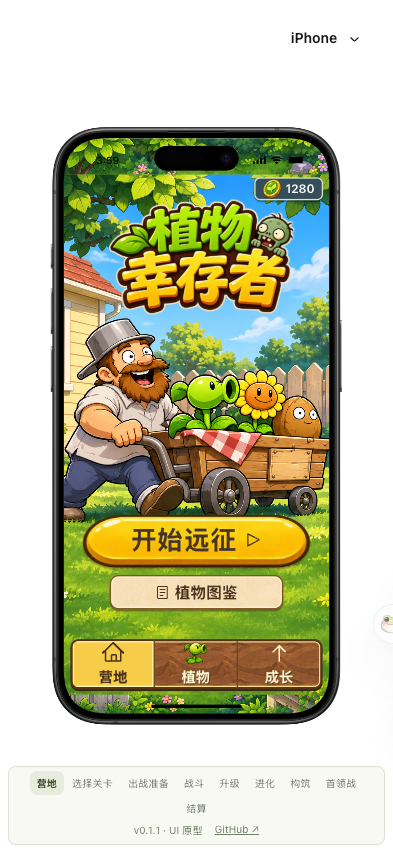
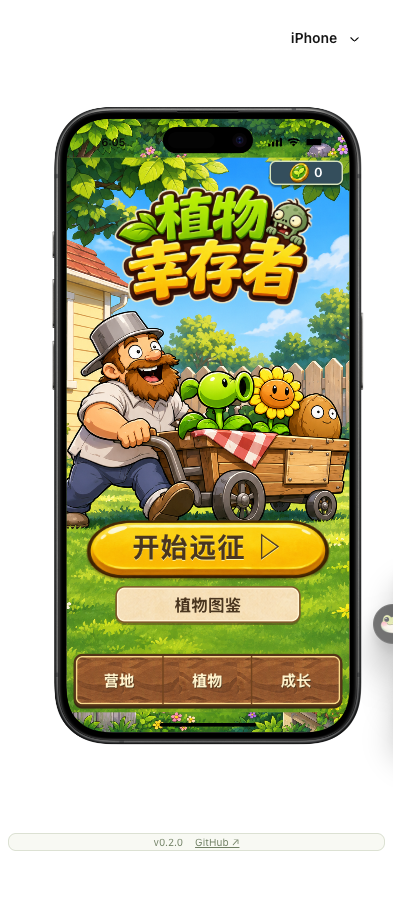
Implement playable garden survivor campaign and staged validation

diff --git a/src/Prototype.tsx b/src/Prototype.tsx
@@ -1,71 +1,45 @@
-import { version } from '../package.json';
-import { useEffect, useRef, useState, type CSSProperties, type ReactNode, type PointerEvent } from 'react';
-import { createPortal } from 'react-dom';
-import { HomeIcon, ArrowUpIcon, PlayIcon, PauseIcon, ReloadIcon, ChevronLeftIcon, ChevronRightIcon, CheckIcon, PlusIcon, LockClosedIcon, Cross2Icon, HeartFilledIcon, ReaderIcon, EyeOpenIcon, SpeakerLoudIcon } from '@radix-ui/react-icons';
-import { useKeyboard } from './mobile';
+import {useEffect,useRef,useState,type ReactNode,type PointerEvent} from 'react';
+import {createPortal} from 'react-dom';
+import {version} from '../package.json';
+import {createRun,step,select,reroll,names,descriptions,clock,type Run} from './game/simulation';
 import './prototype.css';
-
-type Screen='lobby'|'map'|'prepare'|'battle'|'upgrade'|'evolution'|'build'|'boss'|'result';
-const screens: [Screen,string][]=[['lobby','营地'],['map','选择关卡'],['prepare','出战准备'],['battle','战斗'],['upgrade','升级'],['evolution','进化'],['build','构筑'],['boss','首领战'],['result','结算']];
-const plants=[{id:'pea',name:'豌豆射手',detail:'自动瞄准最近的敌人',level:5},{id:'sunflower',name:'向日葵',detail:'收集更多阳光',level:4},{id:'walnut',name:'坚果',detail:'增加最大生命',level:3},{id:'ice',name:'寒冰射手',detail:'发射寒冰豌豆，减速敌人',level:3},{id:'boomerang',name:'回旋镖射手',detail:'往返攻击，清理追兵',level:2},{id:'mushroom',name:'大喷菇',detail:'近距离穿透攻击',level:2}];
-const starters=[plants[0],plants[3],plants[4]];
-const asset=(id:string)=>`/assets/game/${["bag","crystal","chest","seed"].includes(id)?id+"-v2":id}.png`;
-function Art({id,className='',style,alt=''}:{id:string,className?:string,style?:CSSProperties,alt?:string}){return <img src={asset(id)} className={`art ${className}`} style={style} alt={alt} draggable={false}/>}
-function Gold({children,onClick,className='',disabled=false}:{children:ReactNode,onClick:()=>void,className?:string,disabled?:boolean}){return <button className={`gold ${className}`} onClick={onClick} disabled={disabled}>{children}</button>}
-function Paper({children,className=''}:{children:ReactNode,className?:string}){return <section className={`paper ${className}`}>{children}</section>}
-function Sign({children,back}:{children:ReactNode,back?:()=>void}){return <header className="sign">{back&&<button className="back" onClick={back} aria-label="返回"><ChevronLeftIcon/></button>}<h1>{children}</h1></header>}
-function PlantCard({id,level,onClick,selected=false,empty=false,label}:{id?:string,level?:number,onClick?:()=>void,selected?:boolean,empty?:boolean,label?:string}){return <button className={`plant-card ${selected?'selected':''} ${empty?'empty':''}`} onClick={onClick} disabled={!onClick} aria-label={label||plants.find(p=>p.id===id)?.name||({gatling:"机枪射手",bag:"弹药袋",sun:"阳光护符",crystal:"冰晶"} as Record<string,string>)[id||""]||"空位"}>{empty?<><PlusIcon/><small>空位</small></>:<><Art id={id!}/>{level!==undefined&&<strong>Lv.{level}</strong>}{label&&<small>{label}</small>}{selected&&<CheckIcon className="check"/>}</>}</button>}
+const base=window.location.pathname.startsWith('/plant-survivors-ui/')?'/plant-survivors-ui/':'/';
+const asset=(id:string)=>`${base}assets/game/${id==='bag'?'bag-v2':id}.png`;
+const stages=['阳光后院','月光泳池','屋顶花园'];
+function Art({id,className='',alt=''}:{id:string,className?:string,alt?:string}){return <img className={`art ${className}`} src={asset(id)} alt={alt} draggable={false}/>}
+function Gold({children,onClick,disabled=false}:{children:ReactNode,onClick:()=>void,disabled?:boolean}){return <button className="gold" onClick={onClick} disabled={disabled}>{children}</button>}
+function Sign({children,back}:{children:ReactNode,back?:()=>void}){return <header className="sign">{back&&<button className="back" aria-label="返回" onClick={back}>‹</button>}<h1>{children}</h1></header>}
+function loadSave(){try{const d=JSON.parse(localStorage.getItem('garden-save-v1')||'{}');return {seeds:Math.max(0,Number(d.seeds)||0),unlocked:Math.max(0,Math.min(2,Number(d.unlocked)||0)),best:Math.max(0,Number(d.best)||0)};}catch{return {seeds:0,unlocked:0,best:0}}}
 export default function Prototype(){
- const initial=window.location.hash.slice(1) as Screen;
- const [screen,setScreen]=useState<Screen>(screens.some(([s])=>s===initial)?initial:'lobby');
- const [starter,setStarter]=useState('pea'); const [stage,setStage]=useState(0); const [rerolls,setRerolls]=useState(2); const [choiceSet,setChoiceSet]=useState(0); const [upgrade,setUpgrade]=useState(0); const [evolved,setEvolved]=useState(false); const [tracked,setTracked]=useState(false); const [modal,setModal]=useState<string|null>(null); const [toast,setToast]=useState(''); const [atlas,setAtlas]=useState('pea'); const [music,setMusic]=useState(true); const [reduced,setReduced]=useState(false); const [pos,setPos]=useState({x:50,y:51}); const [stick,setStick]=useState({x:0,y:0});
- const keyboard=useKeyboard(); const previous=useRef<Screen>('battle'); const joy=useRef<HTMLDivElement>(null); const input=useRef({x:0,y:0}); const [rewards,setRewards]=useState(false);
- function go(next:Screen){if(next==='boss')setPos({x:41,y:68});keyboard.hide();setModal(null);input.current={x:0,y:0};setStick({x:0,y:0});setScreen(next);window.history.replaceState(null,'',`#${next}`);}
- function notify(message:string){setToast(message)}
- function begin(){setUpgrade(0);setEvolved(false);setRerolls(2);setChoiceSet(0);setRewards(false);setPos({x:50,y:51});go('battle')}
- function openBuild(){previous.current=screen==='boss'?'boss':'battle';go('build')}
- useEffect(()=>{document.title='植物幸存者 · 经典后院';},[]);
- useEffect(()=>{if(!modal)return;const target=document.activeElement as HTMLElement|null;const close=(e:KeyboardEvent)=>{if(e.key==='Escape')setModal(null)};document.addEventListener('keydown',close);document.querySelector<HTMLButtonElement>('.close-modal')?.focus();return()=>{document.removeEventListener('keydown',close);target?.focus()}},[modal]);
- useEffect(()=>{if(!toast)return;const t=setTimeout(()=>setToast(''),2200);return()=>clearTimeout(t)},[toast]);
- useEffect(()=>{const pause=()=>{if(document.hidden&&(screen==='battle'||screen==='boss')){setModal('pause');input.current={x:0,y:0};setStick({x:0,y:0})}};document.addEventListener('visibilitychange',pause);return()=>document.removeEventListener('visibilitychange',pause)},[screen]);
- useEffect(()=>{if(!['battle','boss'].includes(screen)||modal)return;let id:number;let time=0;function frame(now:number){const dt=Math.min((now-time)/1000||0,.04);time=now;if(input.current.x||input.current.y)setPos(p=>({x:Math.min(88,Math.max(12,p.x+input.current.x*dt*22)),y:Math.min(76,Math.max(24,p.y+input.current.y*dt*16))}));id=requestAnimationFrame(frame)}id=requestAnimationFrame(frame);return()=>cancelAnimationFrame(id)},[screen,modal]);
- function drag(e:PointerEvent<HTMLDivElement>){if(e.type==='pointerdown')e.currentTarget.setPointerCapture(e.pointerId);if(e.type==='pointermove'&&!e.currentTarget.hasPointerCapture(e.pointerId))return;const r=e.currentTarget.getBoundingClientRect();let x=(e.clientX-r.left-r.width/2),y=(e.clientY-r.top-r.height/2);const length=Math.hypot(x,y),max=29;if(length>max){x=x/length*max;y=y/length*max}setStick({x,y});input.current={x:x/max,y:y/max};}
- function release(){input.current={x:0,y:0};setStick({x:0,y:0})}
- const current=starters.find(p=>p.id===starter)!;
- const loadout=[plants.find(p=>p.id===starter)!,...plants.filter(p=>p.id!==starter)];
- const evolutionName=starter==='pea'?'机枪射手':starter==='ice'?'霜冻连射':'多重回旋';
- const component=starter==='pea'?{id:'bag',name:'弹药袋'}:starter==='ice'?{id:'crystal',name:'冰晶'}:{id:'boomerang',name:'弹簧'};
- const options=choiceSet%2===0?[{id:starter,title:`${current.name} Lv.${4+upgrade} → Lv.${5+upgrade}`,text:starter==='pea'?'攻击冷却：1.2 → 1.0 秒':'提升攻击覆盖，强化清怪能力',kind:'upgrade'},{id:component.id,title:`${component.name}（新被动）`,text:`${evolutionName}的进化组件。`,kind:'bag'},starter==='ice'?{id:'pea',title:'豌豆射手（新植物）',text:'自动瞄准最近的敌人。',kind:'pea'}:{id:'ice',title:'寒冰射手（新植物）',text:'发射寒冰豌豆，减速敌人。',kind:'ice'}]:[{id:'boomerang',title:'回旋镖射手（新植物）',text:'回程也能命中，清理追兵。',kind:'boomerang'},{id:'sunflower',title:'向日葵 Lv.3 → Lv.4',text:'阳光经验收益 + 8%。',kind:'sunflower'},{id:starter,title:`${current.name} Lv.${4+upgrade} → Lv.${5+upgrade}`,text:'提升主力植物的攻击能力。',kind:'upgrade'}];
- const battle=<div className={`arena ${screen==='boss'?'boss-arena':''} ${reduced?'reduced':''}`}>
-   <div className="hud"><div className="xp"><b>Lv.{evolved?42:18+upgrade}</b><span><i style={{width:`${64+upgrade*5}%`}}/></span><button onClick={()=>setModal('pause')} aria-label="暂停战斗"><PauseIcon/></button></div><div className="vitals"><span><HeartFilledIcon/>82/100</span><strong>{screen==='boss'?'19:20':'05:42'} / 20:00</strong></div></div>
-   {screen==='boss'&&<div className="boss-health"><b>巨人僵尸（伽刚特尔）</b><meter min="0" max="100" value="76"/></div>}
-   <div className="enemies" aria-hidden="true">{Array.from({length:screen==='boss'?13:19},(_,i)=>{const x=i%2===0?5+(i*13)%23:73+(i*7)%19; const y=16+(i*13)%68;return <Art key={i} id={['zombie','cone','bucket'][i%3]} className="enemy" style={{left:`${x}%`,top:`${y}%`,width:`${i%3===0?46:50}px`,animationDelay:`-${i*.37}s`}}/>})}</div>
-   {Array.from({length:9},(_,i)=><Art key={i} id="sun" className="sun-drop" style={{left:`${18+(i*19)%65}%`,top:`${25+(i*13)%50}%`,animationDelay:`-${i*.4}s`}}/>)}
-   {screen==='boss'&&<><Art id="warning" className="danger-zone"/><Art id="boss-trim" className="boss-sprite"/></>}
-   <div className="pea-effects" aria-hidden="true">{Array.from({length:5},(_,i)=><Art id="projectile" key={i} className="projectile" style={{left:`${pos.x}%`,top:`${pos.y}%`,'--dx':`${(i%2?1:-1)*(60+i*14)}px`,'--dy':`${-70-i*18}px`,animationDelay:`-${i*.24}s`} as CSSProperties}/>)}</div><Art id="dave" className="player" style={{left:`${pos.x}%`,top:`${pos.y}%`}}/>
-   <div className="joystick" ref={joy} role="slider" aria-label="移动摇杆" aria-valuemin={-100} aria-valuemax={100} aria-valuenow={Math.round(stick.x/29*100)} tabIndex={0} onPointerDown={drag} onPointerMove={drag} onPointerUp={release} onPointerCancel={release} onLostPointerCapture={release} onKeyDown={e=>{const delta:Record<string,[number,number]>={ArrowLeft:[-2,0],ArrowRight:[2,0],ArrowUp:[0,-2],ArrowDown:[0,2]};if(delta[e.key]){e.preventDefault();const [x,y]=delta[e.key];setPos(p=>({x:Math.max(12,Math.min(88,p.x+x)),y:Math.max(24,Math.min(76,p.y+y))}))}}}><span style={{transform:`translate(${stick.x}px,${stick.y}px)`}}/></div>
-   {screen==='boss'&&<div className="survive-note">存活至 20:00 即可通关</div>}
-   <button className="battle-event" onClick={()=>go(screen==='boss'?'result':evolved?'boss':'upgrade')} aria-label={screen==='boss'?'预览通关结算':evolved?'预览首领战':'拾取阳光并升级'}><Art id={screen==='boss'?'seed':evolved?'chest':'sun'}/><small>{screen==='boss'?'通关':evolved?'首领来袭':'阳光升级'}</small></button>
-   {tracked&&<span className="tracked-label">寒冰配方已追踪</span>}
-   <div className="weapon-dock" aria-label="植物栏">{loadout.map((p,i)=><PlantCard key={p.id} id={i===0?(evolved&&starter==='pea'?'gatling':starter):p.id} level={i===0?5+upgrade:p.level} label={undefined} onClick={openBuild}/>)}</div>
- </div>;
- return <>
-  <div className={`garden-app ${reduced?'reduced':''}`}>
-   <main className={`game-frame view-${screen}`} aria-label={`${screens.find(([s])=>s===screen)?.[1]}界面`}>
-    {screen==='lobby'&&<div className="lobby page"><div className="lobby-hero"><Art id="logo-trim" className="lobby-logo" alt="植物幸存者"/></div><div className="seed-balance"><Art id="seed"/><b>{1280+(rewards?180:0)}</b></div><div className="lobby-actions"><Gold onClick={()=>go('map')}>开始远征 <PlayIcon/></Gold><button className="cream-button" onClick={()=>setModal('atlas')}><ReaderIcon/> 植物图鉴</button></div><nav className="bottom-nav"><button className="active" onClick={()=>go('lobby')}><HomeIcon/>营地</button><button onClick={()=>setModal('atlas')}><Art id="pea"/>植物</button><button onClick={()=>setModal('growth')}><ArrowUpIcon/>成长</button></nav></div>}
-    {screen==='map'&&<div className="page map-page"><Sign back={()=>go('lobby')}>选择关卡</Sign><div className="map-list">{['阳光后院','月光泳池','屋顶花园'].map((name,i)=><button key={name} className={`map-row ${stage===i?'chosen':''}`} onClick={()=>i===0?setStage(i):notify(i===1?'通关阳光后院后解锁':'通关月光泳池后解锁')} aria-label={`选择${name}`}><Art id={['map-day','map-night','map-roof'][i]}/><div><strong>{name}</strong>{i===0?<><small>生存 20 分钟</small><CheckIcon/></>:<LockClosedIcon/>}</div></button>)}</div><Paper className="map-details"><h2>阳光后院</h2><p>生存 20 分钟</p><div className="enemy-preview"><b>敌人预览</b>{['zombie','cone','bucket'].map(id=><Art key={id} id={id}/>)}</div><Gold onClick={()=>go('prepare')}>前往后院 <PlayIcon/></Gold></Paper></div>}
-    {screen==='prepare'&&<div className="page prepare-page"><Sign back={()=>go('map')}>出战准备</Sign><Art id="prep-hero" className="prep-hero"/><Paper className="prepare-paper"><h2>选择初始植物 <small>（仅携带1种）</small></h2><div className="starter-grid">{starters.map(p=><PlantCard key={p.id} id={p.id} label={p.name} selected={starter===p.id} onClick={()=>setStarter(p.id)}/>)}</div><p className="initial-name">初始植物：<b>{current.name}</b></p><div className="empty-slots">{Array.from({length:5},(_,i)=><PlantCard key={i} empty/>)}</div><p className="prepare-note">其余植物，在远征中收集阳光获得</p><Gold onClick={begin}>出 发 <PlayIcon/></Gold></Paper></div>}
-    {(screen==='battle'||screen==='boss')&&battle}
-    {screen==='upgrade'&&<div className="page upgrade-page"><div className="frozen-battle">{battle}</div><div className="upgrade-content"><div className="upgrade-heading"><Art id="sunflower"/><Sign>阳光升级</Sign></div><div className="upgrade-list">{options.map(o=><button key={o.kind} className="upgrade-choice" onClick={()=>{setUpgrade(n=>Math.min(n+1,3));notify(`已选择：${o.title.split(' ')[0]}`);go('battle')}}><Art id={o.id}/><div><h2>{o.title}</h2><p>{o.text}</p></div></button>)}</div><div className="choice-actions"><Gold disabled={rerolls===0} onClick={()=>{setRerolls(n=>n-1);setChoiceSet(n=>n+1)}}><ReloadIcon/> 重掷 {rerolls}</Gold><button className="cream-button" onClick={()=>go('battle')}>跳过 <ChevronRightIcon/></button></div><button className="quiet-link" onClick={()=>go('evolution')}>查看进化效果 <ChevronRightIcon/></button></div></div>}
-    {screen==='evolution'&&<div className="page evolution-page"><>{starter==='pea'?<Art id="evolution-hero-v2" className="evolution-hero" alt="机枪射手，持续连射，穿透怪潮"/>:<div className="alternate-evolution"><Sign>{evolutionName}</Sign><Art id={starter}/><p>植物进化，守护你的花园</p></div>}</><Paper className="recipe-panel"><h2>进化配方</h2><div className="recipe-items">{[{id:starter,label:current.name,level:'Lv.8'},{id:component.id,label:component.name,level:'Lv.1'},{id:'chest',label:'进化宝箱',level:''}].map((item,i)=><div key={item.id} className="recipe-item"><Art id={item.id}/><strong>{item.label}</strong><b>{item.level||'合格宝箱'}</b><CheckIcon/>{i<2&&<PlusIcon className="recipe-plus"/>}</div>)}</div><Gold onClick={()=>{setEvolved(true);setUpgrade(3);go('battle');notify(`${evolutionName}已加入你的花园`)}}>继续战斗 <PlayIcon/></Gold></Paper></div>}
-    {screen==='build'&&<div className="page build-page"><Sign back={()=>go(previous.current)}>本局花园</Sign><Paper className="build-paper"><div className="group-label">植物 4/6</div><div className="build-slots">{[evolved&&starter==='pea'?'gatling':starter,'sunflower','walnut',starter==='ice'?'pea':'ice',null,null].map((id,i)=><PlantCard key={i} id={id||undefined} level={id?[8,6,5,4][i]:undefined} empty={!id} onClick={id?()=>{setAtlas(id==='gatling'?'pea':id);setModal('plant')}:undefined}/>)}</div><div className="group-label">被动 3/6</div><div className="build-slots">{['bag','sun','boomerang',null,null,null].map((id,i)=><PlantCard key={i} id={id||undefined} level={id?[1,3,2][i]:undefined} empty={!id}/>)}</div><div className="tracked-recipe"><Art id="ice" className="recipe-portrait"/><div><h2>寒冰射手 <small>（配方）</small></h2><p>合成获得：霜冻连射</p><div className="mini-recipe"><Art id="ice"/><PlusIcon/><Art id="crystal"/><ChevronRightIcon/><Art id="ice"/></div><div className="mini-labels"><span>Lv.4</span><strong>尚未获得</strong><span>进化</span></div></div></div><div className="build-actions"><button className={`cream-button ${tracked?'is-tracked':''}`} onClick={()=>setTracked(v=>!v)}><EyeOpenIcon/>{tracked?'已追踪':'追踪配方'}</button><Gold onClick={()=>go(previous.current)}>返回战斗 <PlayIcon/></Gold></div></Paper></div>}
-    {screen==='result'&&<div className="page result-page"><Art id="result-hero-v2" className="result-hero" alt="守住了后院！"/><Paper className="result-paper"><dl className="results"><div><dt>通关时间</dt><dd>20:00</dd></div><div><dt>击败僵尸</dt><dd>2486</dd></div><div><dt>进化次数</dt><dd>2</dd></div><div><dt>获得种子</dt><dd>+180</dd></div></dl><h2>植物伤害统计</h2><div className="damage-list">{[['gatling','机枪射手',42.5],['ice','寒冰射手',34.1],['sunflower','向日葵',9.8]].map(([id,name,number])=><div className="damage-row" key={id}><Art id={String(id)}/><span>{name}</span><meter value={Number(number)} max="50"/><b>{number}%</b></div>)}</div><div className="result-actions"><Gold onClick={()=>{setRewards(true);go('prepare')}}><ReloadIcon/>再来一局</Gold><button className="cream-button" onClick={()=>{setRewards(true);go('lobby')}}><HomeIcon/>返回营地</button></div></Paper></div>}
-   </main>
-   {toast&&<div className="toast" role="status">{toast}</div>}
-   {modal&&<div className="modal-shade" onClick={()=>setModal(null)}><section className="game-modal" role="dialog" aria-modal="true" aria-label={modal==='pause'?'暂停':'花园面板'} onClick={e=>e.stopPropagation()}><button className="close-modal" onClick={()=>setModal(null)} aria-label="关闭"><Cross2Icon/></button><Sign>{modal==='pause'?'休息一下':modal==='growth'?'花园成长':modal==='plant'?'植物详情':'植物图鉴'}</Sign><Paper>
-     {modal==='pause'?<><p className="modal-intro">花园已暂停，准备好再出发。</p><Gold onClick={()=>setModal(null)}><PlayIcon/>继续战斗</Gold><button className="cream-button" onClick={openBuild}><ReaderIcon/>查看本局花园</button><button className="setting" aria-pressed={music} onClick={()=>setMusic(v=>!v)}><SpeakerLoudIcon/>音乐 <b>{music?'开启':'关闭'}</b></button><button className="setting" aria-pressed={reduced} onClick={()=>setReduced(v=>!v)}>减少动效 <b>{reduced?'开启':'关闭'}</b></button><button className="quiet-link" onClick={()=>go('lobby')}>返回营地</button></>:modal==='growth'?<><Art id="sunflower" className="modal-plant"/><h2>让花园慢慢长大</h2><p>完成远征，收集种子，发现新的植物。</p><div className="growth-row"><span>阳光后院</span><b>已解锁</b></div><div className="growth-row"><span>月光泳池</span><b>后院通关后解锁</b></div><Gold onClick={()=>go('map')}>开始远征 <PlayIcon/></Gold></>:<><div className="atlas-grid">{plants.map(p=><button key={p.id} className={atlas===p.id?'chosen':''} aria-label={`查看${p.name}`} onClick={()=>setAtlas(p.id)}><Art id={p.id}/></button>)}</div><Art id={atlas} className="modal-plant"/><h2>{plants.find(p=>p.id===atlas)?.name}</h2><p>{plants.find(p=>p.id===atlas)?.detail}</p><button className="cream-button" onClick={()=>setModal(null)}>合上图鉴</button></>}
-   </Paper></section></div>}
-  </div>
-  {createPortal(<aside className="review-rail" aria-label="原型场景导航"><span className="review-eyebrow">UI PROTOTYPE / 01</span><h2>经典后院</h2><p>植物幸存者</p><nav>{screens.map(([id,label],i)=><button key={id} className={screen===id?'current':''} onClick={()=>go(id)}><span>{String(i+1).padStart(2,'0')}</span>{label}<ChevronRightIcon/></button>)}</nav><div className="review-foot">九个关键界面 · 可点击原型<br/>战斗场景与数值为演示</div><a href="/reference.png" target="_blank" rel="noreferrer">查看选定设计图 <ChevronRightIcon/></a><div className="publication-links"><span>{`v${version}`} · UI 原型</span><a href="https://github.com/holynova/plant-survivors-ui" target="_blank" rel="noopener noreferrer">GitHub ↗</a></div></aside>,document.body)}
- </>;
+ const [page,setPage]=useState('lobby'),[starter,setStarter]=useState('pea'),[stage,setStage]=useState(0),[save,setSave]=useState(loadSave),[storageError,setStorageError]=useState(false),[revision,render]=useState(0),[sound,setSound]=useState(false),[ready,setReady]=useState(false),[assetError,setAssetError]=useState(false);
+ const run=useRef<Run>(createRun()),canvas=useRef<HTMLCanvasElement>(null),images=useRef<Record<string,HTMLImageElement>>({}),input=useRef({x:0,y:0}),keys=useRef(new Set<string>()),settled=useRef(false),audio=useRef<AudioContext|null>(null),lastKills=useRef(0);const s=run.current;void revision;
+ useEffect(()=>{if(!import.meta.env.DEV)return;const api={snapshot:()=>structuredClone(run.current),fixture:(patch:Partial<Run>)=>{Object.assign(run.current,patch);render(n=>n+1)}};Object.assign(window,{__gardenQA:api});return()=>{delete (window as unknown as Record<string,unknown>).__gardenQA}},[]);
+ function persist(next:typeof save){setSave(next);try{localStorage.setItem('garden-save-v1',JSON.stringify(next));}catch{setStorageError(true);}}
+ function start(){run.current=createRun(starter,stage,Date.now()>>>0);settled.current=false;lastKills.current=0;input.current={x:0,y:0};setPage('battle');}
+ function pause(){if(run.current.status==='playing'){run.current.status='paused';input.current={x:0,y:0};keys.current.clear();render(n=>n+1);}}
+ function tone(){if(!sound)return;try{const a=audio.current||(audio.current=new AudioContext());void a.resume();const o=a.createOscillator(),g=a.createGain();o.frequency.value=440;g.gain.setValueAtTime(.03,a.currentTime);g.gain.exponentialRampToValueAtTime(.001,a.currentTime+.08);o.connect(g);g.connect(a.destination);o.start();o.stop(a.currentTime+.08);}catch{setSound(false);}}
+ useEffect(()=>{let active=true;Promise.all(['dave','zombie','cone','bucket','boss-trim','sun','pea','ice','boomerang','battle-bg'].map(id=>new Promise<void>((resolve,reject)=>{const im=new Image();im.onload=()=>{images.current[id]=im;resolve()};im.onerror=reject;im.src=asset(id)}))).then(()=>active&&setReady(true)).catch(()=>active&&setAssetError(true));return()=>{active=false}},[]);
+ useEffect(()=>{const down=(e:KeyboardEvent)=>{if(page!=='battle')return;if(['ArrowUp','ArrowDown','ArrowLeft','ArrowRight','w','a','s','d','W','A','S','D'].includes(e.key)){e.preventDefault();keys.current.add(e.key.toLowerCase())}if(e.key==='Escape')pause()};const up=(e:KeyboardEvent)=>keys.current.delete(e.key.toLowerCase());const blur=()=>{keys.current.clear();input.current={x:0,y:0};pause()};const hidden=()=>{if(document.hidden)blur()};window.addEventListener('keydown',down);window.addEventListener('keyup',up);window.addEventListener('blur',blur);document.addEventListener('visibilitychange',hidden);return()=>{window.removeEventListener('keydown',down);window.removeEventListener('keyup',up);window.removeEventListener('blur',blur);document.removeEventListener('visibilitychange',hidden)}},[page]);
+ useEffect(()=>{if(page!=='battle'||!ready)return;let raf=0,last=0,ui=0;const draw=(now:number)=>{const state=run.current;const dt=Math.min((now-last)/1000||0,.05);last=now;const k=keys.current;step(state,dt,{x:input.current.x+(k.has('d')||k.has('arrowright')?1:0)-(k.has('a')||k.has('arrowleft')?1:0),y:input.current.y+(k.has('s')||k.has('arrowdown')?1:0)-(k.has('w')||k.has('arrowup')?1:0)});if(state.kills>lastKills.current){tone();lastKills.current=state.kills;}
+ const ctx=canvas.current?.getContext('2d');if(ctx){ctx.clearRect(0,0,390,680);ctx.drawImage(images.current['battle-bg'],0,0,390,680);if(state.stage){ctx.fillStyle=state.stage===1?'#17397455':'#a06a2925';ctx.fillRect(0,0,390,680)}const sprite=(id:string,x:number,y:number,w:number,h:number)=>{const im=images.current[id];if(im)ctx.drawImage(im,x-w/2,y-h/2,w,h)};for(const d of state.drops)sprite('sun',d.x,d.y,19,19);for(const e of state.enemies){sprite(e.kind,e.x,e.y,e.boss?100:40,e.boss?115:53);if(e.hp<e.max){ctx.fillStyle='#47241c';ctx.fillRect(e.x-18,e.y-32,36,4);ctx.fillStyle='#aadd49';ctx.fillRect(e.x-18,e.y-32,36*e.hp/e.max,4)}}for(const p of state.shots){ctx.fillStyle=p.kind==='ice'?'#a6ecff':p.kind==='boomerang'?'#e8b74e':'#91e442';ctx.beginPath();ctx.arc(p.x,p.y,5,0,Math.PI*2);ctx.fill()}if(state.blast.time>0){ctx.strokeStyle='#d3a4f8';ctx.lineWidth=5;ctx.beginPath();ctx.arc(state.blast.x,state.blast.y,95,0,Math.PI*2);ctx.stroke()}ctx.globalAlpha=state.invulnerable>0?.55:1;sprite('dave',state.x,state.y,64,64);ctx.globalAlpha=1;}
+ if(['won','lost'].includes(state.status)){if(!settled.current){settled.current=true;const reward=Math.floor(state.kills/3)+(state.status==='won'?100:10);const old=loadSave();persist({seeds:old.seeds+reward,unlocked:state.status==='won'?Math.max(old.unlocked,Math.min(2,state.stage+1)):old.unlocked,best:Math.max(old.best,state.kills)});}setPage('result');return;}
+ if(now-ui>80){render(n=>n+1);ui=now;}raf=requestAnimationFrame(draw)};raf=requestAnimationFrame(draw);return()=>cancelAnimationFrame(raf)},[page,ready,sound]);
+ function drag(e:PointerEvent<HTMLDivElement>){if(e.type==='pointerdown')e.currentTarget.setPointerCapture(e.pointerId);if(!e.currentTarget.hasPointerCapture(e.pointerId))return;const r=e.currentTarget.getBoundingClientRect();const x=(e.clientX-r.left-r.width/2)/30,y=(e.clientY-r.top-r.height/2)/30,l=Math.max(1,Math.hypot(x,y));input.current={x:x/l,y:y/l};}
+ const reset=()=>{input.current={x:0,y:0}};
+ const build=<><Sign>本局花园</Sign><div className="live-build">{Object.entries(s.plants).map(([id,level])=><div key={id}><Art id={id}/><b>{names[id]} Lv.{level}</b><p>{descriptions[id]}</p></div>)}</div><p className="help">主植物 Lv.5 + 弹药袋 → 自动进化<br/>{s.evolved?'已进化：三重连射':`主植物 ${s.plants[s.starter]}/5 · 弹药袋 ${s.plants.bag||0}/1`}</p></>;
+ return <><div className="garden-app"><main className={`game-frame view-${page}`}>
+ {page==='lobby'&&<div className="lobby page"><div className="lobby-hero"><Art id="logo-trim" className="lobby-logo" alt="植物幸存者"/></div><div className="seed-balance"><Art id="seed-v2"/><b>{save.seeds}</b></div><div className="lobby-actions"><Gold onClick={()=>setPage('map')} disabled={!ready}>{assetError?'素材加载失败，请刷新':ready?'开始远征 ▷':'花园加载中…'}</Gold><button className="cream-button" onClick={()=>setPage('atlas')}>植物图鉴</button></div><nav className="bottom-nav"><button onClick={()=>setPage('lobby')}>营地</button><button onClick={()=>setPage('atlas')}>植物</button><button onClick={()=>setPage('growth')}>成长</button></nav></div>}
+ {page==='map'&&<div className="page map-page"><Sign back={()=>setPage('lobby')}>选择关卡</Sign><div className="map-list">{stages.map((name,i)=><button className={`map-row ${stage===i?'chosen':''}`} key={name} disabled={i>save.unlocked} onClick={()=>setStage(i)}><Art id={['map-day','map-night','map-roof'][i]}/><div><strong>{name}</strong><small>{i>save.unlocked?'通关前一关解锁':`${3+i*.5} 分钟 · 击败首领`}</small></div></button>)}</div><section className="paper map-details"><h2>{stages[stage]}</h2><p>收集阳光升级，撑过怪潮并击败首领。</p><div className="enemy-preview">{['zombie','cone','bucket'].map(id=><Art id={id} key={id}/>)}</div><Gold onClick={()=>setPage('prepare')}>前往花园 ▷</Gold></section></div>}
+ {page==='prepare'&&<div className="page prepare-page"><Sign back={()=>setPage('map')}>出战准备</Sign><Art id="prep-hero" className="prep-hero"/><section className="paper prepare-paper"><h2>选择初始植物</h2><div className="starter-grid">{['pea','ice','boomerang'].map(id=><button className={`plant-card ${starter===id?'selected':''}`} onClick={()=>setStarter(id)} key={id}><Art id={id}/><small>{names[id]}</small></button>)}</div><p className="help">拖动摇杆移动 · 植物自动攻击<br/>靠近阳光拾取经验，升级时选择强化。<br/>电脑可用 WASD / 方向键，Esc 暂停。</p><Gold onClick={start}>出 发 ▷</Gold></section></div>}
+ {page==='battle'&&<div className="arena live-arena"><canvas ref={canvas} width={390} height={680} aria-label="实时花园战场"/><div className="hud"><div className="xp"><b>Lv.{s.level}</b><span><i style={{width:`${s.xp/s.nextXp*100}%`}}/></span><button onClick={pause} aria-label="暂停战斗">Ⅱ</button></div><div className="vitals"><span>♥ {s.hp}/{s.maxHp}</span><strong>{clock(s.time)} / {clock(s.duration)}</strong></div><small>击败 {s.kills} · {s.evolved?'三重进化':'收集阳光升级'}</small></div>{s.warning>0&&<div className="boss-alert">巨人僵尸来袭！</div>}{s.bossSpawned&&!s.bossDead&&<div className="boss-health"><b>巨人僵尸</b><meter max={s.enemies.find(e=>e.boss)?.max||1} value={s.enemies.find(e=>e.boss)?.hp||0}/></div>}<div className="joystick" aria-label="移动摇杆" role="application" onPointerDown={drag} onPointerMove={drag} onPointerUp={reset} onPointerCancel={reset} onLostPointerCapture={reset}><span style={{transform:`translate(${input.current.x*29}px,${input.current.y*29}px)`}}/></div><div className="weapon-dock">{Object.entries(s.plants).map(([id,level])=><button key={id} className="plant-card" aria-label="查看本局花园" onClick={()=>{pause();setPage('build')}}><Art id={id}/><strong>Lv.{level}</strong></button>)}</div>
+ {s.status==='upgrade'&&<div className="modal-shade"><section className="upgrade-content"><Sign>阳光升级 · {s.level}</Sign><div className="upgrade-list">{s.choices.map(id=><button className="upgrade-choice" key={id} onClick={()=>{select(s,id);reset();render(n=>n+1)}}><Art id={id}/><div><h2>{names[id]} Lv.{(s.plants[id]||0)+1}</h2><p>{descriptions[id]}</p></div></button>)}</div><Gold disabled={!s.rerolls} onClick={()=>{reroll(s);render(n=>n+1)}}>重掷 · {s.rerolls}</Gold></section></div>}
+ {s.status==='paused'&&<div className="modal-shade"><section className="game-modal"><Sign>休息一下</Sign><section className="paper"><p>花园已暂停</p><Gold onClick={()=>{s.status='playing';render(n=>n+1)}}>继续战斗 ▷</Gold><button className="cream-button" onClick={()=>setPage('build')}>查看本局花园</button><button className="cream-button" onClick={()=>{setSound(v=>!v);tone()}}>命中音效：{sound?'开':'关'}</button><button className="quiet-link" onClick={()=>setPage('abandon')}>结束本局</button></section></section></div>}
+ {s.evolutionNotice&&s.status==='playing'&&<div className="modal-shade"><section className="game-modal"><Sign>植物进化！</Sign><section className="paper"><Art id={s.starter==='pea'?'gatling':s.starter} className="modal-plant"/><h2>三重连射</h2><p>主植物已满级，弹药袋唤醒了新力量。</p><Gold onClick={()=>{s.evolutionNotice=false;render(n=>n+1)}}>继续战斗</Gold></section></section></div>}
+ </div>}
+ {page==='build'&&<div className="page paper">{build}<Gold onClick={()=>{s.status='playing';setPage('battle')}}>返回战斗</Gold></div>}
+ {page==='abandon'&&<div className="page paper"><Sign>结束远征？</Sign><p className="help">本局将结算为撤退，保留已获得的奖励。</p><Gold onClick={()=>{s.status='lost';setPage('battle')}}>确认撤退</Gold><button className="cream-button" onClick={()=>setPage('battle')}>继续本局</button></div>}
+ {page==='result'&&<div className="page result-page">{s.status==='won'?<Art id="result-hero-v2" className="result-hero" alt="守住了花园"/>:<div className="defeat"><Art id="dave"/><Sign>下次再守护花园</Sign></div>}<section className="paper result-paper"><dl className="results"><div><dt>{s.status==='won'?'远征成功':'远征结束'}</dt><dd>{clock(s.time)}</dd></div><div><dt>击败僵尸</dt><dd>{s.kills}</dd></div><div><dt>植物进化</dt><dd>{s.evolved?1:0}</dd></div><div><dt>获得种子</dt><dd>+{Math.floor(s.kills/3)+(s.status==='won'?100:10)}</dd></div></dl><h2>实际伤害统计</h2><div className="damage-list">{Object.entries(s.damage).sort((a,b)=>b[1]-a[1]).map(([id,n])=><div className="damage-row" key={id}><Art id={id}/><span>{names[id]}</span><meter value={n} max={Math.max(...Object.values(s.damage))}/><b>{Math.round(n)}</b></div>)}</div><div className="result-actions"><Gold onClick={start}>再来一局</Gold><button className="cream-button" onClick={()=>setPage('lobby')}>返回营地</button></div></section></div>}
+ {page==='atlas'&&<div className="page paper"><Sign back={()=>setPage('lobby')}>植物图鉴</Sign><div className="live-build">{Object.keys(names).map(id=><div key={id}><Art id={id}/><b>{names[id]}</b><p>{descriptions[id]}</p></div>)}</div></div>}
+ {page==='growth'&&<div className="page paper"><Sign back={()=>setPage('lobby')}>花园成长</Sign><Art id="sunflower" className="modal-plant"/><h2>种子 {save.seeds}</h2><p className="help">已解锁 {save.unlocked+1}/3 张地图<br/>最佳击败数 {save.best}<br/>通关当前地图，即可解锁下一张。</p><Gold onClick={()=>setPage('map')}>开始远征</Gold></div>}
+ </main>{storageError&&<div className="toast">浏览器无法保存进度，本次奖励仍保留在当前页面。</div>}</div>{createPortal(<aside className="review-rail live-rail"><span className="review-eyebrow">GARDEN SURVIVORS</span><h2>经典后院</h2><p>植物幸存者</p><div className="review-foot">移动，收集，进化。<br/>三张地图 · 自动攻击 · 本地存档<br/>WASD / 方向键移动，Esc 暂停</div><div className="publication-links"><span>v{version}</span><a href="https://github.com/holynova/plant-survivors-ui" target="_blank" rel="noreferrer">GitHub ↗</a></div></aside>,document.body)}</>;
 }

diff --git a/src/game/simulation.ts b/src/game/simulation.ts
@@ -1,0 +1,27 @@
+export const names:Record<string,string>={pea:'豌豆射手',ice:'寒冰射手',boomerang:'回旋镖',mushroom:'大喷菇',sunflower:'向日葵',walnut:'坚果',bag:'弹药袋'};
+export const descriptions:Record<string,string>={pea:'自动瞄准；提升伤害与连射',ice:'冰弹减速敌人；提升伤害',boomerang:'穿透敌群；提升投射物数量',mushroom:'周期喷射，击退周围敌人',sunflower:'扩大拾取范围，增加经验',walnut:'增加 25 最大生命并恢复生命',bag:'加快攻击；主植物 5 级时进化'};
+export type Enemy={id:number,x:number,y:number,hp:number,max:number,speed:number,kind:string,slow:number,boss:boolean};
+export type Shot={x:number,y:number,vx:number,vy:number,life:number,damage:number,kind:string,hits:number[]};
+export type Run=ReturnType<typeof createRun>;
+export function createRun(starter='pea',stage=0,seed=12345){return {time:0,duration:180+stage*30,stage,seed,id:0,x:195,y:350,hp:100,maxHp:100,invulnerable:0,xp:0,nextXp:5,level:1,kills:0,status:'playing',plants:{[starter]:1} as Record<string,number>,starter,evolved:false,evolutionNotice:false,enemies:[] as Enemy[],shots:[] as Shot[],drops:[] as {x:number,y:number,value:number}[],damage:{} as Record<string,number>,cooldowns:{} as Record<string,number>,spawn:0,bossSpawned:false,bossDead:false,warning:0,blast:{x:0,y:0,time:0},choices:[] as string[],rerolls:2};}
+export function random(s:Run){s.seed=(s.seed*1664525+1013904223)>>>0;return s.seed/4294967296;}
+export function choices(s:Run){const pool=Object.keys(names).filter(k=>(s.plants[k]||0)<5);for(let i=pool.length-1;i>0;i--){const j=Math.floor(random(s)*(i+1));[pool[i],pool[j]]=[pool[j],pool[i]];}return pool.slice(0,3);}
+export function select(s:Run,id:string){if(s.status!=='upgrade'||!s.choices.includes(id))return false;s.plants[id]=(s.plants[id]||0)+1;if(id==='walnut'){s.maxHp+=25;s.hp=Math.min(s.maxHp,s.hp+40);}if(!s.evolved&&s.plants[s.starter]>=5&&s.plants.bag){s.evolved=true;s.evolutionNotice=true;}s.status='playing';s.choices=[];return true;}
+export function reroll(s:Run){if(s.status==='upgrade'&&s.rerolls>0){s.rerolls--;s.choices=choices(s);}}
+function hit(s:Run,e:Enemy,damage:number,kind:string){if(e.hp<=0)return;const real=Math.min(e.hp,damage);e.hp-=damage;s.damage[kind]=(s.damage[kind]||0)+real;if(e.hp<=0){s.kills++;s.drops.push({x:e.x,y:e.y,value:e.boss?30:e.kind==='bucket'?3:1});if(e.boss)s.bossDead=true;}}
+export function step(s:Run,dt:number,input={x:0,y:0}){if(s.status!=='playing'||s.evolutionNotice)return;dt=Math.max(0,Math.min(dt,.05));s.time+=dt;s.invulnerable=Math.max(0,s.invulnerable-dt);s.blast.time=Math.max(0,s.blast.time-dt);const len=Math.max(1,Math.hypot(input.x,input.y));s.x=Math.max(18,Math.min(372,s.x+input.x/len*120*dt));s.y=Math.max(85,Math.min(610,s.y+input.y/len*120*dt));
+ s.spawn-=dt;if(s.spawn<=0&&s.enemies.length<110){s.spawn=Math.max(.22,1.35-s.time*.004-s.stage*.06);const side=Math.floor(random(s)*4),x=side===0?-20:side===1?410:random(s)*390,y=side===2?65:side===3?640:85+random(s)*510;const kind=s.time>45&&random(s)>.7?'bucket':random(s)>.6?'cone':'zombie';const hp=(kind==='bucket'?70:kind==='cone'?38:20)*(1+s.time/300+s.stage*.1);s.enemies.push({id:++s.id,x,y,hp,max:hp,speed:(kind==='bucket'?19:kind==='cone'?29:24)+s.stage*2+s.time*.025,kind,slow:0,boss:false});}
+ if(s.time>=s.duration-45&&!s.bossSpawned){s.bossSpawned=true;const hp=1200+s.stage*500;s.enemies.push({id:++s.id,x:195,y:95,hp,max:hp,speed:22,kind:'boss-trim',slow:0,boss:true});s.warning=4;}
+ s.warning=Math.max(0,s.warning-dt);
+ for(const [kind,level] of Object.entries(s.plants)){if(['walnut','sunflower','bag'].includes(kind))continue;s.cooldowns[kind]=(s.cooldowns[kind]||0)-dt;if(s.cooldowns[kind]>0)continue;s.cooldowns[kind]=(kind==='mushroom'?1.8:.9)/(1+level*.13+(s.plants.bag||0)*.08+(s.evolved&&kind===s.starter?.6:0));
+ if(kind==='mushroom'){for(const e of s.enemies)if(Math.hypot(e.x-s.x,e.y-s.y)<85+level*8){hit(s,e,15+level*9,kind);const a=Math.atan2(e.y-s.y,e.x-s.x);e.x+=Math.cos(a)*15;e.y+=Math.sin(a)*15;}s.blast={x:s.x,y:s.y,time:.25};continue;}
+ const e=s.enemies.filter(e=>e.hp>0).sort((a,b)=>Math.hypot(a.x-s.x,a.y-s.y)-Math.hypot(b.x-s.x,b.y-s.y))[0];if(!e)continue;const a=Math.atan2(e.y-s.y,e.x-s.x),count=(s.evolved&&kind===s.starter?3:1)+(kind==='boomerang'&&level>=3?1:0);for(let i=0;i<count;i++){const angle=a+(i-(count-1)/2)*.16;s.shots.push({x:s.x,y:s.y,vx:Math.cos(angle)*250,vy:Math.sin(angle)*250,life:2,damage:16+level*8,kind,hits:[]});}}
+ for(const p of s.shots){p.life-=dt;p.x+=p.vx*dt;p.y+=p.vy*dt;for(const e of s.enemies){if(e.hp>0&&!p.hits.includes(e.id)&&Math.hypot(e.x-p.x,e.y-p.y)<(e.boss?36:18)){hit(s,e,p.damage,p.kind);p.hits.push(e.id);if(p.kind==='ice')e.slow=2;if(p.kind!=='boomerang'){p.life=0;break;}}}}
+ s.shots=s.shots.filter(p=>p.life>0&&p.x>-50&&p.x<440&&p.y>20&&p.y<700).slice(-200);s.enemies=s.enemies.filter(e=>e.hp>0);
+ for(const e of s.enemies){e.slow=Math.max(0,e.slow-dt);const dx=s.x-e.x,dy=s.y-e.y,d=Math.hypot(dx,dy)||1;e.x+=dx/d*e.speed*(e.slow>0?.45:1)*dt;e.y+=dy/d*e.speed*(e.slow>0?.45:1)*dt;if(d<(e.boss?43:24)&&s.invulnerable<=0){s.hp-=e.boss?25:10;s.invulnerable=.8;}}
+ if(s.hp<=0){s.hp=0;s.status='lost';return;}
+ s.drops=s.drops.filter(d=>{const dist=Math.hypot(d.x-s.x,d.y-s.y);if(dist<35+(s.plants.sunflower||0)*15){s.xp+=d.value*(1+(s.plants.sunflower||0)*.12);return false;}return true;});if(s.drops.length>180){const excess=s.drops.splice(0,s.drops.length-180);s.drops[0].value+=excess.reduce((v,d)=>v+d.value,0);}
+ if(s.xp>=s.nextXp){s.xp-=s.nextXp;s.level++;s.nextXp=Math.ceil(s.nextXp*1.16+2);s.choices=choices(s);if(s.choices.length)s.status='upgrade';else s.hp=Math.min(s.maxHp,s.hp+30);}
+ if(s.time>=s.duration&&s.bossDead)s.status='won';
+}
+export const clock=(t:number)=>`${Math.floor(t/60).toString().padStart(2,'0')}:${Math.floor(t%60).toString().padStart(2,'0')}`;

diff --git a/src/prototype.css b/src/prototype.css
@@ -6,3 +6,4 @@
 .danger-zone{object-fit:fill;border:0;box-shadow:none;border-radius:0;background:none;height:21%;top:48%;width:76%;left:15%;z-index:1}.pea-effects{position:absolute;inset:0;pointer-events:none}.projectile{position:absolute;width:21px;height:12px;z-index:2;animation:pea-flight 1.4s linear infinite;transform:rotate(-45deg)}@keyframes pea-flight{from{translate:0 0;opacity:0}15%{opacity:1}to{translate:var(--dx) var(--dy);opacity:0}}.alternate-evolution{height:53%;display:flex;flex-direction:column;align-items:center;padding:20px 15px;gap:15px;color:#fff5bd}.alternate-evolution>.art{height:65%;width:75%}.alternate-evolution .sign{width:85%;margin:0}.alternate-evolution p{font-size:20px}
 
 .publication-links{display:flex;gap:12px;margin:16px 12px 0;font-size:11px;color:#6f7f63}.publication-links a{color:inherit}@media(max-width:800px){.review-rail{flex-wrap:wrap}.publication-links{margin:3px 0;font-size:10px;flex-basis:100%;justify-content:center}}
+.live-arena canvas{position:absolute;inset:0;width:100%;height:100%;object-fit:fill}.live-arena .hud{z-index:3}.live-arena .hud small{font-size:12px;color:#fff4cd}.live-arena .boss-health{top:95px}.live-arena .weapon-dock{grid-template-columns:repeat(7,1fr)}.live-arena .plant-card img{width:100%}.live-arena .modal-shade{z-index:40}.live-arena .upgrade-content{width:100%;gap:12px;padding:0}.live-arena .upgrade-choice{min-height:100px}.live-arena .upgrade-choice h2{font-size:17px}.live-arena .upgrade-choice p{font-size:13px}.live-arena .joystick{bottom:90px}.help{text-align:center;line-height:1.9;font-size:14px;padding:12px}.live-build{overflow:auto;min-height:0;flex:1;padding:10px}.live-build>div{display:grid;grid-template-columns:55px 1fr;gap:2px 12px;padding:10px 0;border-bottom:1px solid #bbaa77}.live-build img{grid-row:span 2;width:55px;height:60px}.live-build p{font-size:12px;line-height:1.5}.defeat{height:35%;display:flex;flex-direction:column;align-items:center;padding:20px}.defeat>img{height:120px}.defeat .sign h1{font-size:23px}.boss-alert{position:absolute;top:35%;left:10%;right:10%;background:#7b2b21e8;color:#fff2ba;text-align:center;padding:20px;z-index:6;border:3px solid #ddb265;border-radius:12px;font-size:23px;pointer-events:none}.page.paper{padding:24px 18px}.map-row:disabled{opacity:.65}.live-rail{pointer-events:auto}@media(max-width:800px){.live-rail{padding:2px;bottom:1px}.live-rail .publication-links{margin:0}}

diff --git a/index.html b/index.html
@@ -2,10 +2,10 @@
 <html lang="zh-CN">
   <head>
     <meta charset="UTF-8" />
-    <meta name="application-version" content="v0.1.1" />
+    <meta name="application-version" content="v0.2.0" />
     <meta name="viewport" content="width=device-width, initial-scale=1.0" />
     <title>植物幸存者 · 经典后院</title>
-    <meta name="description" content="植物幸存者经典后院，九个关键场景的移动端交互原型。" />
+    <meta name="description" content="植物幸存者经典后院，移动端自动攻击生存游戏。" />
     <link rel="icon" type="image/png" href="/assets/game/sunflower.png" />
     <script defer src="https://cloud.umami.is/script.js" data-website-id="e01c9f78-4607-4e60-b01c-77c8190b12b4"></script>
   </head>

diff --git a/README.md b/README.md
@@ -1,12 +1,12 @@
 # 植物幸存者 · Plant Survivors
 
-[Demo（待上线 / Pending deployment）](https://plant-survivors-ui.xiaosang.cc/) · [Repo](https://github.com/holynova/plant-survivors-ui)
+[Demo](https://xiaosang.cc/plant-survivors-ui/) · [Repo](https://github.com/holynova/plant-survivors-ui)
 
-经典后院风格的移动端可点击 UI 原型，包含营地、关卡、出战准备、战斗、升级、进化、构筑、首领战与结算九个场景。战斗和数值为演示，尚不是完整游戏。
+经典后院风格的移动端单机幸存者游戏。拖动摇杆移动，植物自动攻击；收集阳光，三选一升级，组合植物与被动触发进化，击败首领解锁地图。共三关，每关约 3–4 分钟，支持键盘、暂停、结算和本地存档。种子用于记录奖励，暂无商店。
 
-A mobile-first clickable UI prototype with nine garden-themed scenes: camp, stages, preparation, battle, upgrades, evolution, builds, boss battle and results. Combat and numbers are demonstrative; this is not a complete game.
+A mobile-first survival game: move with the joystick or WASD/arrows, auto-attack enemies, collect sunlight, choose upgrades, evolve plants and defeat bosses. Three stages last roughly 3–4 minutes each. Progress is saved locally. Seeds record rewards; there is no shop or cloud sync.
 
-![真实运行截图 / Running app](assets/screenshot.png)
+![真实运行截图 / Running game](assets/screenshot.png)
 
 ## 运行 / Run
 
@@ -15,19 +15,16 @@ npm ci
 npm run dev
 ```
 
-## 检查与发布 / Check and deploy
+## 测试与构建 / Test and build
 
 ```sh
+npm run test:game
 npm run test:sites
-npm run build
-npm run deploy:check
-npm run deploy
+npm run build:release
 ```
 
-Cloudflare deployment is pending: the account has reached its 100-Worker free-plan limit. The link and QR target above are reserved and not yet verified online. Deploy manually from the committed main branch with an authenticated Wrangler account.
+Production assets in `dist/client` target `/plant-survivors-ui/`. Copy this build into the portfolio repository's matching folder, commit to its master branch, then stage that committed tree and manually deploy the existing `xiaosang-portfolio` Worker. Do not create another Worker.
 
-## 手机访问 / Open on mobile
+[分阶段测试报告 / Test report](docs/TEST-REPORT.md) · [素材说明 / Assets](ASSETS.md)
 
-![Demo QR](assets/qr.png)
-
-[原型说明 / Prototype notes](docs/PROTOTYPE.md) · [素材说明 / Asset notes](ASSETS.md)
+![手机访问 / QR](assets/qr.png)

diff --git a/docs/TEST-REPORT.md b/docs/TEST-REPORT.md
@@ -1,0 +1,16 @@
+# 分阶段验收 · 0.2.0
+
+## 第一阶段：战斗模拟
+8 项 Node 测试通过：移动归一化/边界、真实命中与经验掉落、暂停冻结、升级选择/重掷/进化、接触伤害和失败、首领胜利条件、进化弹窗冻结、寒冰减速与坚果回血。
+
+## 第二阶段：完整关卡
+固定种子 431、30Hz、自动避敌并拾取经验的策略运行 3 地图 × 3 初始植物，共 9 局。均经正常模拟通关，时长 180/210/240 秒。自动策略不代表所有玩家或随机种子都能通关。测试发现后两关早期强度过高，降低刷怪增长并提高基础攻击后重跑通过。
+
+## 第三阶段：浏览器交互
+真实浏览器实测进入关卡、键盘移动、自动攻击/击杀、暂停。开发环境夹具用于快速覆盖升级、进化、首领、胜利、结算与存档边界，不能等同于完整人工通关。生产构建剔除 QA API。
+
+## 交付范围
+单机 Canvas 2D 游戏，三地图（共用草坪地形，以色调、怪物强度和时长区分）、三初始武器、四主动武器/三被动、升级、进化、首领、失败重试、本地奖励与地图解锁。无账号、云同步或后台离线战斗。种子记录远征奖励，目前无商店。
+
+## 第四阶段：生产预览
+393×852 视口验证子路径产物：图片无加载失败；生产环境无 `__gardenQA`；摇杆拖动、真实计时、撤退确认及失败结算通过。浏览器真实截图保存在 assets/screenshot.png，开发过程证据保存在本地 .artifacts。受保护移动运行时 28 个文件校验通过，4 项 Worker 路由测试通过。

diff --git a/AGENTS.md b/AGENTS.md
@@ -72,3 +72,5 @@ When any text-entry control loses focus, dismiss the simulated keyboard. If the 
 
 ## Selected design direction
 User chose option 1, 经典后院, and explicitly requires strict fidelity to `/Users/sym/code/plant-survivors-design/concepts/01-classic-garden.png`. Preserve its nine scenes, warm wood/parchment/yellow controls, large illustrated hero regions and mobile gameplay HUD. Do not blend the other concepts. Scope currently is an interactive UI prototype; battle and data are demonstrative.
+
+User authorized a complete playable game, staged testing, and deployment under https://xiaosang.cc/plant-survivors-ui/ on the portfolio Worker. Preserve the selected classic garden art and protected mobile runtime.
